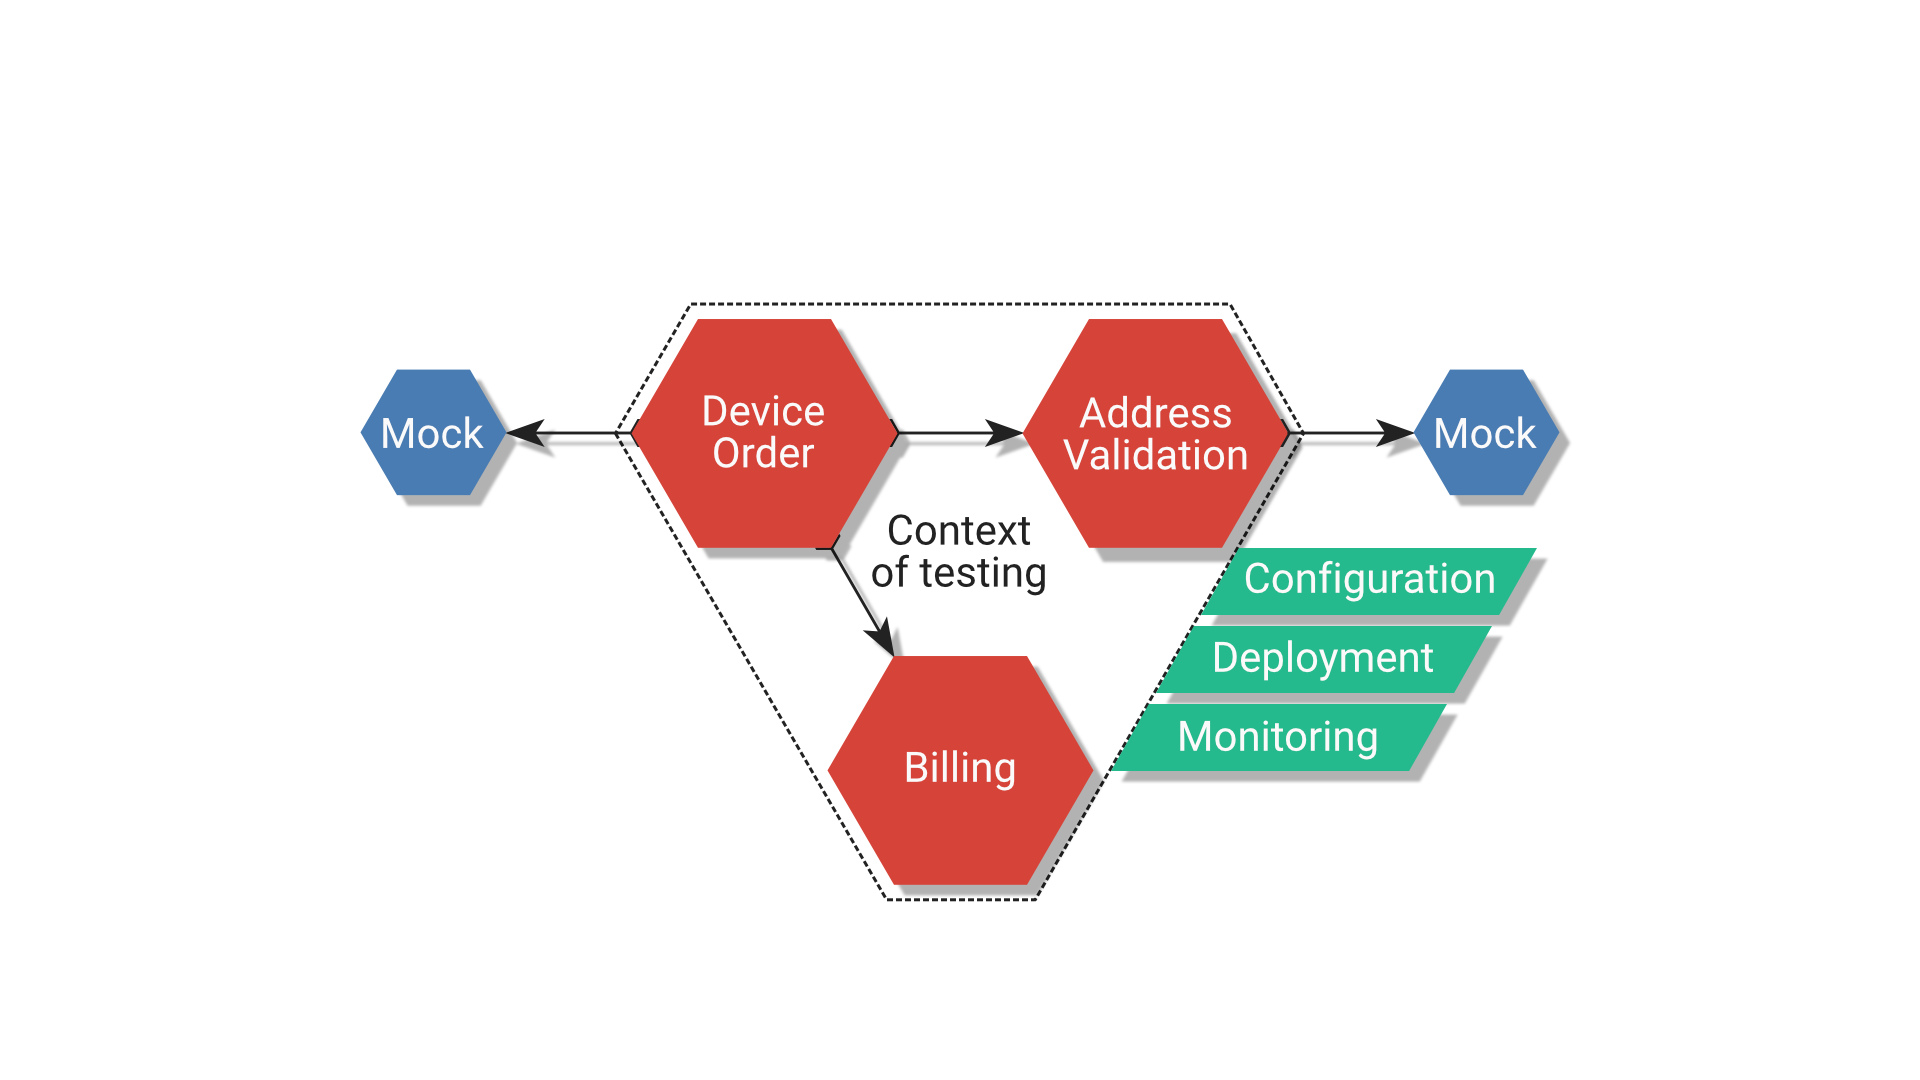
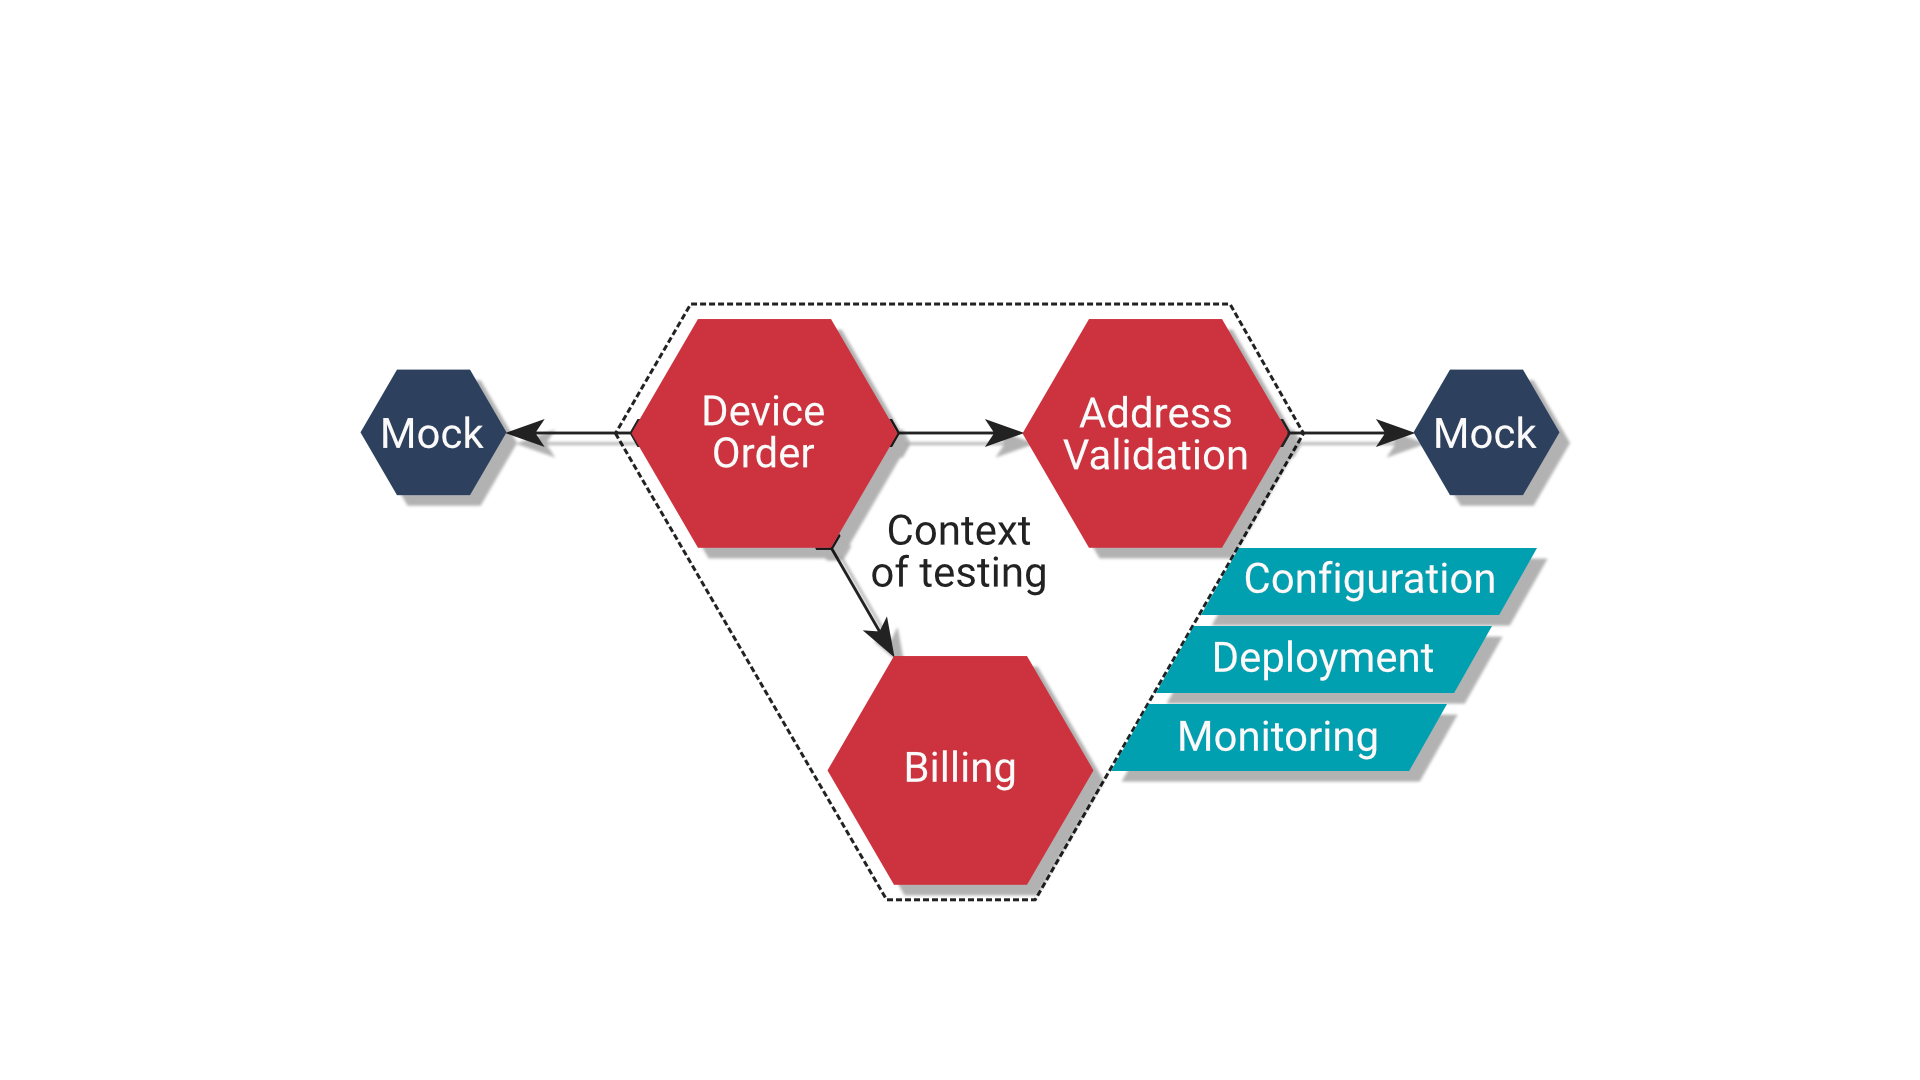
New color scheme

diff --git a/slides/1_solution/15_types_of_testing.html b/slides/1_solution/15_types_of_testing.html
@@ -1,3 +1,6 @@
+<h2 style="text-transform: none;">Виды тестирования</h2>
+<div style="visibility: hidden; margin-top: 500px;">ORLY</div>
+
 <aside class="notes">
     У нас часто доходит до того, что любой из видов тестирования становится фетишем (будь то традиционное тестирование,
     мониторинг, исследование или что там у вас используется); вместо того, чтобы работать на достижение цели,

diff --git a/slides/0_introduction/20_cd_is_easy.html b/slides/0_introduction/20_cd_is_easy.html
@@ -1,6 +1,6 @@
 <h2 style="text-transform: none;">CI/CD это просто</h2>
 <h2 class="fragment ci-is-easy roboto-regular color-red">Сборка</h2>
-<h2 class="fragment ci-is-easy roboto-medium color-yellow">Тестирование</h2>
+<h2 class="fragment ci-is-easy roboto-medium color-green">Тестирование</h2>
 <h2 class="fragment ci-is-easy roboto-bold color-cyan">Развертывание</h2>
 <h2 class="fragment ci-is-easy roboto-black color-blue">Повторить</h2>
 

diff --git a/css/source/theme.scss b/css/source/theme.scss
@@ -111,19 +111,19 @@ section.has-light-background {
 
 
 .color-red {
-    color: #D64439 !important;
+    color: #CC333F !important;
 }
 
-.color-yellow {
-    color: #ECBE13 !important;
+.color-green {
+    color: #47985B !important;
 }
 
 .color-cyan {
-    color: #25BA8D !important;
+    color: #00A0B0 !important;
 }
 
 .color-blue {
-    color:  #497CB2 !important;
+    color:  #2D415E !important;
 }
 
 .high-line {

diff --git a/slides/1_solution/25_pact.html b/slides/1_solution/25_pact.html
@@ -1,5 +1,5 @@
 <h2 style="text-transform: none;">Тестирование контрактов</h2>
-<div style="visibility: hidden; margin-top: 500px;">ORLY</div>
+<div style="visibility: hidden; margin-top: 400px;">ORLY</div>
 
 <aside class="notes">
     Оказывается уже есть подходы и технологии которые позволяют тестировать моки!

diff --git a/slides/1_solution/20_component_testing.html b/slides/1_solution/20_component_testing.html
@@ -1,4 +1,4 @@
-<h2 style="text-transform: none;" data-transition="fade-up">Компонентное тестирование</h2>
+<h2 style="text-transform: none;">Компонентное тестирование</h2>
 <div style="visibility: hidden; margin-top: 400px;">ORLY</div>
 
 <aside class="notes">
